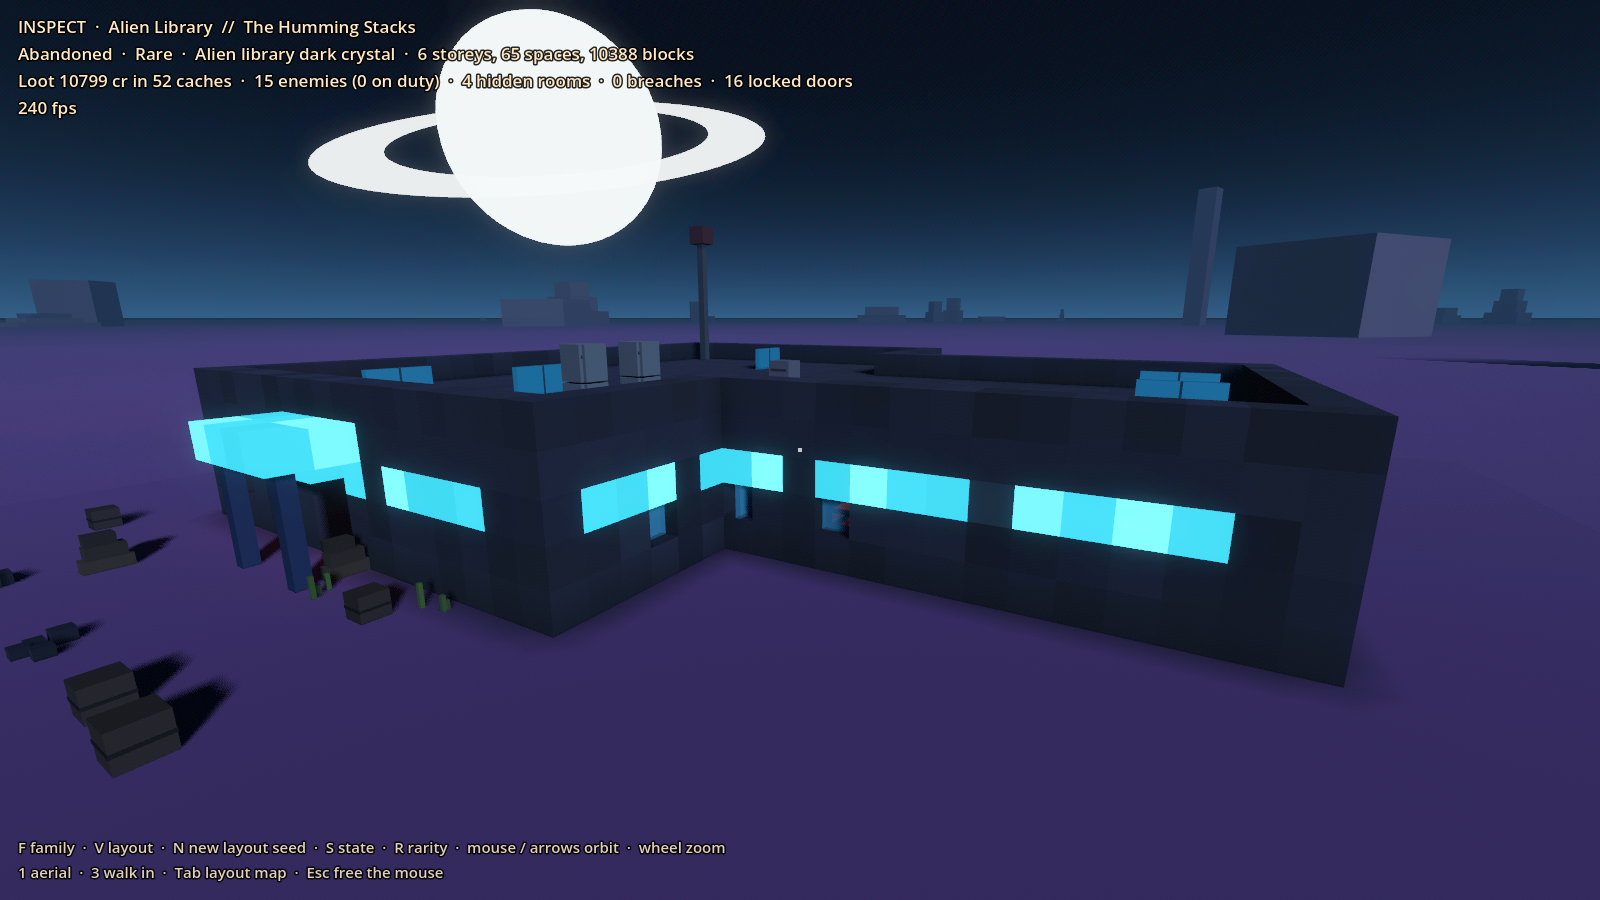
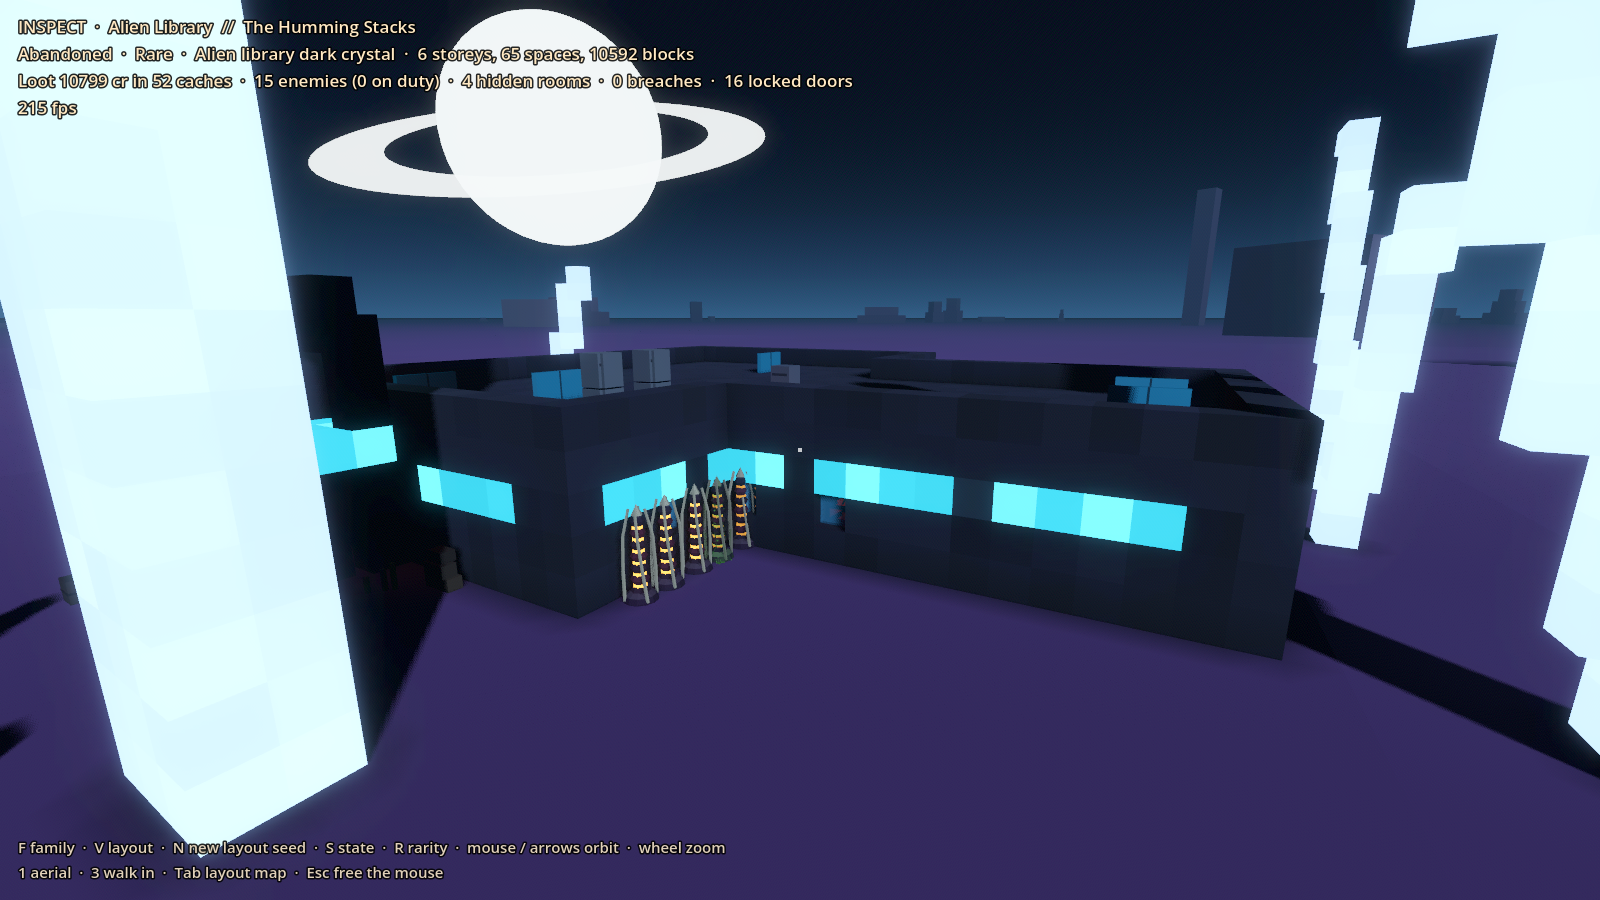
Alien flavour beyond a palette: spires, fins, crystal, domes, portals and alien deco
Alien places grow forms nobody human would build, laid over the plan without
touching its rooms or ways (BuildingAlien.cs). A cathedral now has its own
program (cruciform or long nave, tall halls, few windows) and grows a tapering
spire on the crossing, each ring resting on a ledge of the last, with glyphs
lit up its sides, and stepped fins leaning out from its flanks. A library
sprouts leaning crystal columns and a crystal monolith; a hive swells into
chitin mounds and breathing vents. Every alien way in gets a pointed portal of
jambs, lintel and a glowing keystone beside and above the door, never in front.
No radio masts on alien roofs, and an alien cathedral never gets the torn-off
tower crown.

The viewer dresses alien rooms from the decorations library on main
(shared/Deco, its alien set): each room's size and doorways go to DecoPoi and
the placed pieces are scenery (no collision), so no checked way is closed.

diff --git a/prototypes/poi-generator/src/Gen/Arch/BuildingAlien.cs b/prototypes/poi-generator/src/Gen/Arch/BuildingAlien.cs
@@ -1,0 +1,191 @@
+#nullable enable
+using System;
+using System.Linq;
+
+namespace PoiGenerator.Gen;
+
+public sealed partial class Building
+{
+    /// <summary>
+    /// What makes an alien place more than a re-skin: forms nobody human would build, laid over the
+    /// plan without touching its rooms or ways. A cathedral grows a tapering spire as tall as itself,
+    /// leaning fins down its flanks and a pointed portal; a library sprouts leaning crystal columns
+    /// and a monolith; a hive swells into domes and breathing vents. The doorways still connect:
+    /// frames stand beside and above them, never in front.
+    /// </summary>
+    void AlienForm()
+    {
+        string style = Fam.Style ?? "";
+        if (!style.StartsWith("alien_", StringComparison.Ordinal)) return;
+        Rgb shell = S.Wall.Colors[0];
+        Rgb glow = S.Light.Colors[0];
+        Int3 entrance = Out.EntranceCell;
+
+        bool Free(Int3 p) => C.Get(p).IsAir && !C.Occ.Contains(p);
+        void Put(Int3 p, Block b) { if (Free(p)) C.Set(p, b); }
+        Block Bone(float shade) => new(BlockType.Cube, Material.Bone, shell.Scale(shade), Role.Wall);
+        Block Crystal() => new(BlockType.Cube, Material.Crystal, glow.Lerp(new Rgb(0x8a, 0x9a, 0xff), 0.5f), Role.Decor);
+        bool NearDoor(Int3 p) => Math.Abs(p.X - entrance.X) + Math.Abs(p.Z - entrance.Z) < 7;
+        Int3 Middle() => new((Out.Min.X + Out.Max.X) / 2, 0, (Out.Min.Z + Out.Max.Z) / 2);
+        int HalfSpan() => Math.Max(Out.Max.X - Out.Min.X, Out.Max.Z - Out.Min.Z) / 2;
+
+        Portal();
+        switch (style)
+        {
+            case "alien_cathedral": Spire(); Fins(); break;
+            case "alien_library": Crystals(5, 6, 16); Monolith(); break;
+            case "alien_hive": Domes(); Vents(); break;
+            default: Crystals(3, 4, 10); break;
+        }
+
+        // A pointed portal round the way in: jambs beside the door, an arch meeting over it, a glowing keystone.
+        void Portal()
+        {
+            var cells = Out.ExitCells;
+            if (cells.Count == 0) return;
+            Int3 lo = cells.Aggregate(Int3.Min), hi = cells.Aggregate(Int3.Max);
+            Int3 outV = Out.EntranceFacing.Vec();
+            Int3 across = Out.EntranceFacing is Dir.North or Dir.South ? new Int3(1, 0, 0) : new Int3(0, 0, 1);
+            Int3 a = lo with { Y = 0 } - across + outV, b = hi with { Y = 0 } + across + outV;
+            // Jambs, a lintel row joining them, and the point over it: every piece rests on the last.
+            for (int y = 0; y <= 6; y++) { Put(a + Int3.Up * y, Bone(0.9f)); Put(b + Int3.Up * y, Bone(0.9f)); }
+            for (Int3 c = a + Int3.Up * 6; c != b + Int3.Up * 6; c += across) Put(c, Bone(0.95f));
+            Int3 key = lo with { Y = 7 } + outV;
+            Put(key, new Block(BlockType.Cube, Material.Glyph, glow, Role.Light));
+            Put(hi with { Y = 7 } + outV, Bone(1f));
+            C.X.Lights.Add(new LightSpot { Cell = key, Color = glow, Mode = LightMode.Pulse, Energy = 1.4f, Range = 9f });
+        }
+
+        // A tapering spire on the roof, hollow rings stepping in as they climb, as tall again as the building.
+        void Spire()
+        {
+            if (Hut) return;
+            int y0 = WalkY(Top) + 4;
+            int cx = Cx > Wm / 2 ? Math.Max(5, Cx / 2) : Math.Min(Wm - 6, (CoreEnd + Wm) / 2), cz = Zm + Dm / 2 + 2;
+            // The spire stands on roof all round its base (a corner the tower shed is no footing).
+            bool Footed(int r)
+            {
+                for (int dz = -r; dz <= r; dz++)
+                    for (int dx = -r; dx <= r; dx++)
+                        if ((Math.Abs(dx) == r || Math.Abs(dz) == r) && (!InFoot(Top, cx + dx, cz + dz) || C.Get(L(cx + dx, y0 - 1, cz + dz)).IsAir || !Free(L(cx + dx, y0, cz + dz)))) return false;
+                return true;
+            }
+            // On the crossing if it can stand there, else the widest footing on the roof.
+            int side = 0;
+            (int x, int z) best = (cx, cz);
+            foreach (var (tx, tz) in Enumerable.Range(0, W).SelectMany(x => Enumerable.Range(0, D).Select(z => (x, z))).OrderBy(p => Math.Abs(p.x - Wm / 2) + Math.Abs(p.z - (Zm + Dm / 2))))
+            {
+                cx = tx; cz = tz;
+                int r = 4;
+                while (r > 0 && !Footed(r)) r--;
+                if (Footed(r) && r > side) { side = r; best = (tx, tz); }
+                if (side >= 3) break;
+            }
+            (cx, cz) = best;
+            if (!Footed(side)) return;
+            int tall = Math.Max(18, Floors * 4);
+            int y = y0;
+            for (int r = side; r >= 0; r--)
+            {
+                int ring = r == 0 ? 6 : Math.Max(3, tall / (side + 1));
+                for (int k = 0; k < ring; k++, y++)
+                    for (int dz = -r; dz <= r; dz++)
+                        for (int dx = -r; dx <= r; dx++)
+                            if (Math.Abs(dx) == r || Math.Abs(dz) == r || k == ring - 1)   // the last course of each ring is a ledge the next rests on
+                                Put(L(cx + dx, y, cz + dz), (k + dx + dz) % 5 == 0 && r > 0 ? new Block(BlockType.Cube, Material.Glyph, glow, Role.Light) : Bone(0.92f + 0.04f * (k % 2)));
+            }
+            Put(L(cx, y, cz), new Block(BlockType.Cube, Material.Crystal, glow, Role.Light));
+            C.X.Lights.Add(new LightSpot { Cell = L(cx, y, cz), Color = glow, Mode = LightMode.Beacon, Energy = 2.4f, Range = 18f });
+        }
+
+        // Fins down the flanks: stepped buttresses leaning out from the walls, every few metres.
+        void Fins()
+        {
+            int h = Math.Min(16, Floors * 4 - 2);
+            foreach (Dir side in Dirs.Horizontal)
+            {
+                Int3 o = side.Vec();
+                for (int z = 0; z < D; z++)
+                    for (int x = 0; x < W; x++)
+                    {
+                        if (!InFoot(0, x, z) || InFoot(0, x + o.X, z + o.Z)) continue;   // an outer wall facing this way
+                        if ((side is Dir.North or Dir.South ? x : z) % 7 != 3) continue;
+                        Int3 wall = L(x, 0, z), outward = L(x + o.X, 0, z + o.Z) - wall;
+                        if (NearDoor(wall)) continue;
+                        for (int d = 1; d <= 4; d++)
+                            for (int y = 0; y < h - (d - 1) * (h / 4); y++)
+                                Put(wall + outward * d + Int3.Up * y, Bone(0.85f));
+                    }
+            }
+        }
+
+        // Leaning crystal columns round the place, glowing faintly: they climb in steps, drifting as they go.
+        void Crystals(int count, int min, int max)
+        {
+            for (int k = 0; k < count; k++)
+            {
+                double ang = Rng.Float(0f, MathF.Tau);
+                int dist = Rng.Between(4, 12);
+                Int3 mid = Middle();
+                Int3 at = new(mid.X + (int)(Math.Cos(ang) * (HalfSpan() + dist)), 0, mid.Z + (int)(Math.Sin(ang) * (HalfSpan() + dist)));
+                if (NearDoor(at) || !Free(at)) continue;
+                int tall = Rng.Between(min, max);
+                Int3 lean = Rng.Chance(0.5f) ? new Int3(Rng.Chance(0.5f) ? 1 : -1, 0, 0) : new Int3(0, 0, Rng.Chance(0.5f) ? 1 : -1);
+                Int3 c = at;
+                for (int y = 0; y < tall; y++)
+                {
+                    Put(c + Int3.Up * y, Crystal());
+                    if (y % 3 == 2) { c += lean; Put(c + Int3.Up * y, Crystal()); }
+                }
+                C.X.Lights.Add(new LightSpot { Cell = c + Int3.Up * (tall - 1), Color = glow, Mode = LightMode.Pulse, Energy = 1.2f, Range = 10f });
+            }
+        }
+
+        // A monolith: a slab of crystal far taller than anything round it.
+        void Monolith()
+        {
+            Int3 at = new(Out.Min.X - 7, 0, Middle().Z);
+            if (NearDoor(at)) at = new Int3(Out.Max.X + 6, 0, Middle().Z);
+            for (int y = 0; y < 22; y++)
+                for (int dx = 0; dx < 2; dx++)
+                    for (int dz = 0; dz < (y < 18 ? 3 : 2); dz++)
+                        Put(at + new Int3(dx, y, dz), Crystal());
+            C.X.Lights.Add(new LightSpot { Cell = at + new Int3(0, 22, 0), Color = glow, Mode = LightMode.Beacon, Energy = 2f, Range = 16f });
+        }
+
+        // Domes swelling out of the ground round the hive: mounds of chitin.
+        void Domes()
+        {
+            for (int k = 0; k < 4; k++)
+            {
+                double ang = k * Math.PI / 2 + Rng.Float(-0.4f, 0.4f);
+                int r = Rng.Between(3, 6);
+                Int3 mid = Middle();
+                Int3 at = new(mid.X + (int)(Math.Cos(ang) * (HalfSpan() + r + 3)), 0, mid.Z + (int)(Math.Sin(ang) * (HalfSpan() + r + 3)));
+                if (NearDoor(at)) continue;
+                for (int y = 0; y <= r; y++)
+                    for (int dz = -r; dz <= r; dz++)
+                        for (int dx = -r; dx <= r; dx++)
+                        {
+                            float d = MathF.Sqrt(dx * dx + dz * dz + y * y * 1.3f);
+                            if (d > r) continue;   // solid mounds: every cell rests on the one below
+                            Put(at + new Int3(dx, y, dz), new Block(BlockType.Cube, Material.Chitin, shell.Scale(0.8f + 0.05f * ((dx + dz + y) & 3)), Role.Wall));
+                        }
+            }
+        }
+
+        // Vents breathing out of the ground, each with a faint glow at its mouth.
+        void Vents()
+        {
+            for (int k = 0; k < 6; k++)
+            {
+                Int3 at = Middle() + new Int3(Rng.Between(-14, 14), 0, Rng.Between(-14, 14));
+                if (NearDoor(at) || !Free(at)) continue;
+                int tall = Rng.Between(4, 9);
+                for (int y = 0; y < tall; y++) Put(at + Int3.Up * y, new Block(BlockType.Pillar, Material.Chitin, shell.Scale(0.7f), Role.Decor));
+                Put(at + Int3.Up * tall, new Block(BlockType.Cube, Material.Lumen, glow, Role.Light));
+                C.X.Lights.Add(new LightSpot { Cell = at + Int3.Up * tall, Color = glow, Mode = LightMode.Pulse, Energy = 1f, Range = 8f });
+            }
+        }
+    }
+}

diff --git a/prototypes/poi-generator/src/View/PoiViewDeco.cs b/prototypes/poi-generator/src/View/PoiViewDeco.cs
@@ -1,0 +1,83 @@
+using System;
+using System.IO;
+using System.Linq;
+using GalHack.Deco;
+using GalHack.Deco.Engine;
+using GalHack.Items;
+using Godot;
+using PoiGenerator.Gen;
+
+namespace PoiGenerator;
+
+/// <summary>
+/// Dressing from the shared decorations library (<c>shared/Deco</c>). Alien places are furnished
+/// from its alien set, room by room: each room's size and doorways go in, the library arranges
+/// its pieces as the room was used and then left. The pieces are scenery here (no collision), so
+/// they never close a way the architect checked.
+/// </summary>
+public partial class PoiView
+{
+    static DecoPoi _decoPoi;
+    static DecoMeshCache _decoMeshes;
+    static bool _decoTried;
+
+    static string ItemsData => Path.GetFullPath(Path.Combine(ProjectSettings.GlobalizePath("res://"), "..", "..", "shared", "Items", "data"));
+
+    void DressFromDecoLibrary()
+    {
+        if (!(Poi.Family.Style ?? "").StartsWith("alien_", StringComparison.Ordinal)) return;
+        if (!_decoTried)
+        {
+            _decoTried = true;
+            try
+            {
+                var catalogue = DecoCatalogue.LoadDirectory(ItemsData);
+                var forge = new DecoForge(catalogue);
+                _decoPoi = new DecoPoi(forge, DecoArrangements.LoadDirectory(ItemsData, catalogue));
+                _decoMeshes = new DecoMeshCache(forge);
+            }
+            catch (Exception e)
+            {
+                GD.PushWarning($"decorations library unavailable: {e.Message}");
+            }
+        }
+        if (_decoPoi == null) return;
+        var layout = Poi.Layout;
+        var holder = new Node3D { Name = "Deco" };
+        AddChild(holder);
+        string state = Poi.State.ToString().ToLowerInvariant();
+        foreach (var m in layout.Modules.Where(m => m.Kind is ModuleKind.Room or ModuleKind.Hall or ModuleKind.Vault))
+        {
+            var floor = m.Cells.Where(c => c.Y == m.Min.Y).ToList();
+            if (floor.Count < 9) continue;
+            int x0 = floor.Min(c => c.X), x1 = floor.Max(c => c.X), z0 = floor.Min(c => c.Z), z1 = floor.Max(c => c.Z);
+            var room = new DecoRoom
+            {
+                Width = x1 - x0 + 1, Depth = z1 - z0 + 1, Height = 3f, Set = "alien", RoomId = m.Purpose, State = state,
+                Seed = Hash.Combine(Poi.SpawnSeed, (ulong)m.Index + 1),
+            };
+            foreach (var d in layout.Doorways.Where(d => d.ModuleA == m.Index || d.ModuleB == m.Index))
+            {
+                var cells = d.Cells.Where(c => c.Y == m.Min.Y).ToList();
+                if (cells.Count == 0) continue;
+                Int3 c = cells.Aggregate(Int3.Min);
+                float width = cells.Count;
+                if (c.Z < z0) room.Doors.Add(new DecoDoor(DecoWall.North, c.X - x0 + width / 2, width));
+                else if (c.Z > z1) room.Doors.Add(new DecoDoor(DecoWall.South, c.X - x0 + width / 2, width));
+                else if (c.X < x0) room.Doors.Add(new DecoDoor(DecoWall.West, c.Z - z0 + width / 2, width));
+                else if (c.X > x1) room.Doors.Add(new DecoDoor(DecoWall.East, c.Z - z0 + width / 2, width));
+            }
+            try
+            {
+                DecoPlan plan = _decoPoi.Dress(room);
+                var view = DecoPlanView.Create(_decoMeshes, plan, collide: false, lights: false);
+                view.Position = new Vector3(x0, m.Min.Y, z0);
+                holder.AddChild(view);
+            }
+            catch (Exception e)
+            {
+                GD.PushWarning($"could not dress {m.Purpose}: {e.Message}");
+            }
+        }
+    }
+}

diff --git a/prototypes/poi-generator/src/Gen/Arch/BuildingRooms.cs b/prototypes/poi-generator/src/Gen/Arch/BuildingRooms.cs
@@ -867,11 +867,11 @@ public sealed partial class Building
                 }
             C.X.Markers.Add(new Marker("landing-pad", L(cxr, y, czr)));
         }
-        if (P.Crown == "broken") BrokenCrown(y);
+        if (P.Crown == "broken" && !(Fam.Style ?? "").StartsWith("alien_", StringComparison.Ordinal)) BrokenCrown(y);   // an alien cathedral grows a spire instead
         // Plant on the roof: tanks, a mast with a beacon (a light you see from far off).
         // The mast stands where there is roof under it (a tower that shed a corner keeps it on what is left).
         var mastAt = new[] { (Wm - 3, Zm + 2), (2, Zm + 2), (Wm - 3, Zm + Dm - 3), (2, Zm + Dm - 3) }.FirstOrDefault(c => InFoot(Top, c.Item1, c.Item2) && !C.Get(L(c.Item1, y - 1, c.Item2)).IsAir, (-1, -1));
-        if (mastAt.Item1 >= 0)
+        if (mastAt.Item1 >= 0 && !(Fam.Style ?? "").StartsWith("alien_", StringComparison.Ordinal))   // no radio mast on an alien place
         {
             Int3 mast = L(mastAt.Item1, y, mastAt.Item2);
             for (int k = 0; k < 6 + Floors; k++) C.Set(mast + Int3.Up * k, new Block(BlockType.Pillar, Material.Steel, new Rgb(0x60, 0x64, 0x68), Role.Decor));

diff --git a/prototypes/poi-generator/src/Gen/Arch/Building.cs b/prototypes/poi-generator/src/Gen/Arch/Building.cs
@@ -203,6 +203,7 @@ public sealed partial class Building
         Out.Levels = Levels;
         Out.Min = Int3.Min(L(0, WalkY(Bottom) - 1, 0), L(W - 1, WalkY(Top) + 4, D - 1));
         Out.Max = Int3.Max(L(0, WalkY(Bottom) - 1, 0), L(W - 1, WalkY(Top) + 4, D - 1));
+        AlienForm();   // after the bounds: alien forms grow round the building's footprint
         int index = C.X.Plans.Select(p => p.Building).DefaultIfEmpty(-1).Max() + 1;
         foreach (var p in _plans.Values.OrderBy(p => p.S))
         {

diff --git a/prototypes/poi-generator/src/View/PoiView.cs b/prototypes/poi-generator/src/View/PoiView.cs
@@ -95,6 +95,7 @@ public partial class PoiView : Node3D
         if (opt.Lights) view.BuildLights();
         if (opt.Figures) view.BuildFigures();
         view.BuildInteractables();
+        view.DressFromDecoLibrary();
         return view;
     }
 
